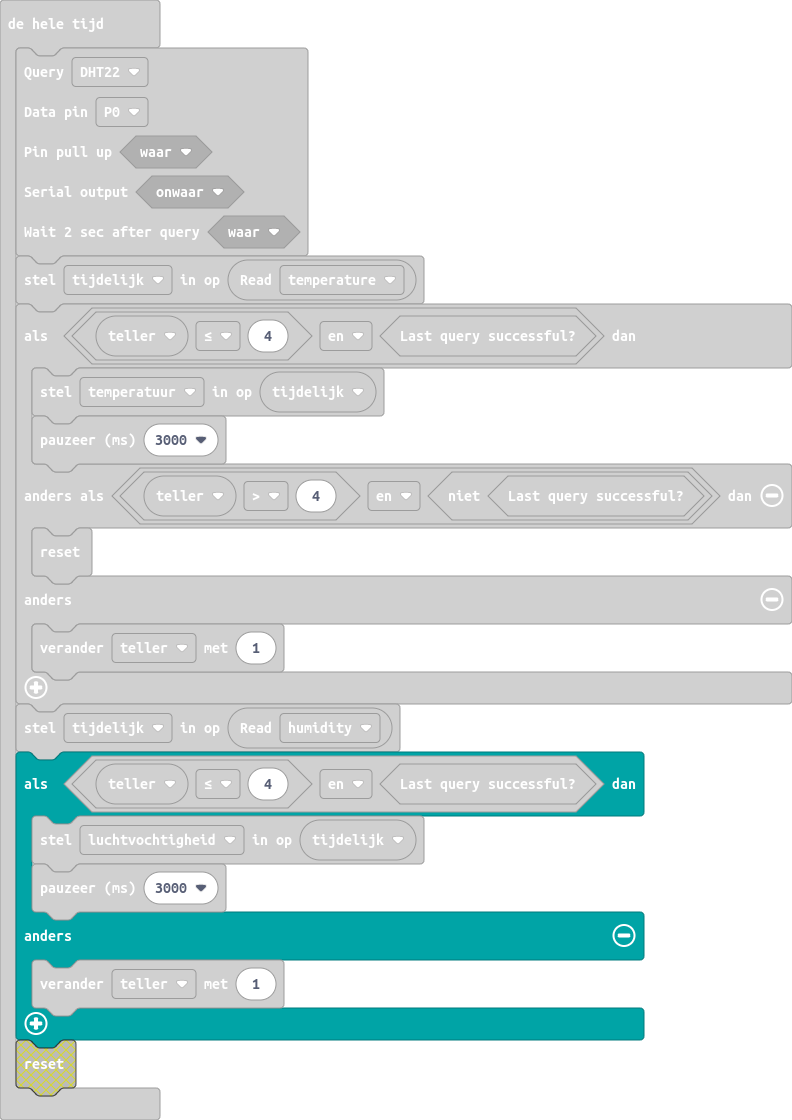
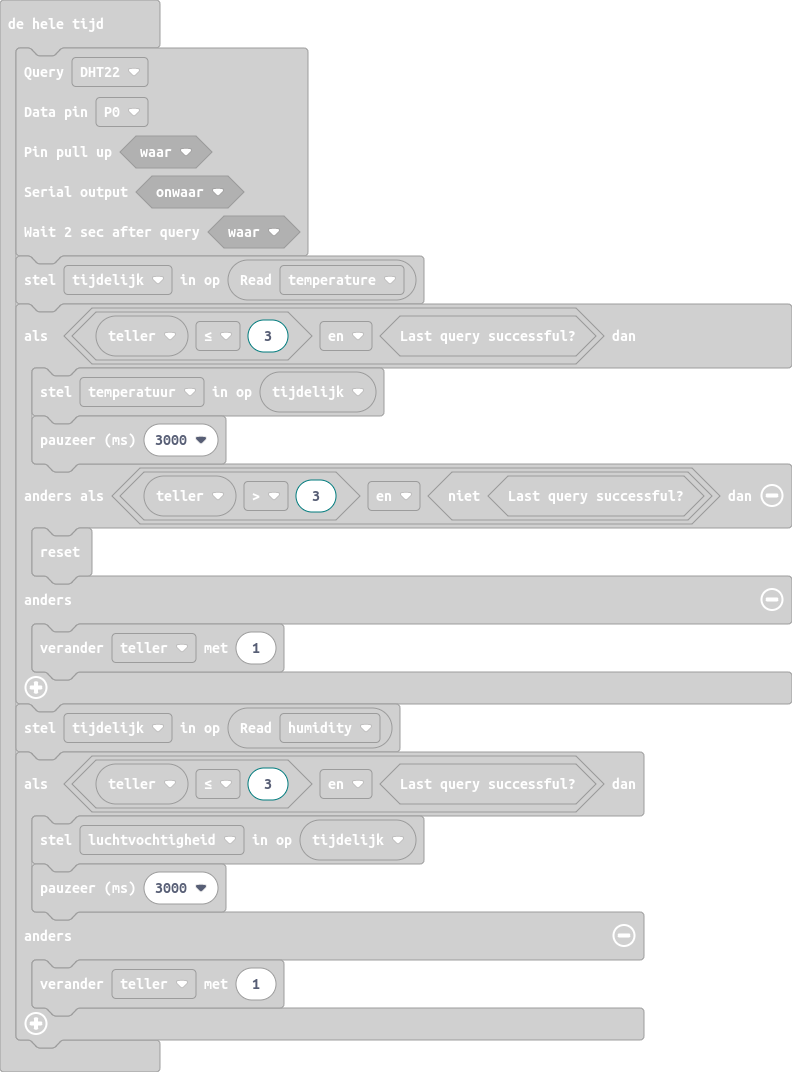
teller <= 3

diff --git a/main.ts b/main.ts
@@ -19,16 +19,16 @@ basic.forever(function () {
     true
     )
     tijdelijk = dht11_dht22.readData(dataType.temperature)
-    if (teller <= 4 && dht11_dht22.readDataSuccessful()) {
+    if (teller <= 3 && dht11_dht22.readDataSuccessful()) {
         temperatuur = tijdelijk
         basic.pause(3000)
-    } else if (teller > 4 && !(dht11_dht22.readDataSuccessful())) {
+    } else if (teller > 3 && !(dht11_dht22.readDataSuccessful())) {
         control.reset()
     } else {
         teller += 1
     }
     tijdelijk = dht11_dht22.readData(dataType.humidity)
-    if (teller <= 4 && dht11_dht22.readDataSuccessful()) {
+    if (teller <= 3 && dht11_dht22.readDataSuccessful()) {
         luchtvochtigheid = tijdelijk
         basic.pause(3000)
     } else {
